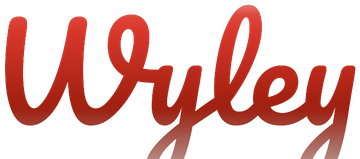
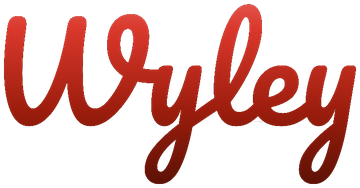
Studio Notebook 0.2.3: most used lines, desk summary, signature and small fixes
Claude-Session: https://claude.ai/code/session_01PB2t8s4Cb4Zaj8TXQ9mjb5

diff --git a/studio-notebook-src/app/public/js/app.js b/studio-notebook-src/app/public/js/app.js
@@ -48,7 +48,7 @@ function drawRail(active) {
     h('a', { class: 'brand', href: '#/' }, 'Studio', h('br'), 'Notebook', h('i')),
     ...NAV.map(([key, href, label]) => h('a', { class: 'nav', href, 'aria-current': active === key ? 'page' : null }, icon(key), label)),
     h('div', { class: 'foot' },
-      h('a', { class: 'sig', href: 'https://wyleymusic.com', target: '_blank', rel: 'noopener noreferrer', title: 'wyleymusic.com' }, h('img', { src: '/wyley.png', alt: 'Wyley', width: 120, height: 53 })),
+      h('a', { class: 'sig', href: 'https://wyleymusic.com', target: '_blank', rel: 'noopener noreferrer', title: 'wyleymusic.com' }, h('img', { src: '/wyley.png', alt: 'Wyley', width: 120, height: 63 })),
       app.state.version ? 'Version ' + app.state.version : ''));
 }
 
@@ -122,10 +122,21 @@ function deskView() {
         h('span', { class: 'rank' }, i + 1), h('b', null, w.word), h('span', { class: 'small mute' }, `${w.count} times in ${w.songs} ${w.songs === 1 ? 'song' : 'songs'}`)))),
       h('p', { class: 'small mute' }, 'Across every song, leaving out small words like "the" and "and". Pick one to find other ways to say it.')));
   }
+  const lines = app.state.topLines || [];
+  if (lines.length) {
+    el.append(h('section', { class: 'sect' }, h('h2', null, 'Most used lines'),
+      h('div', { class: 'list' }, lines.map((l) => h('div', { class: 'item topline' },
+        h('div', { class: 'grow' }, h('div', { class: 't' }, l.line),
+          l.variants.length ? h('div', { class: 'small mute' }, 'Also: ' + l.variants.join(' / ')) : null,
+          h('div', { class: 's' }, l.songs.map((s, i) => [i ? ', ' : '', h('a', { href: `#/song/${s.id}` }, s.title)]), l.more ? ` and ${l.more} more` : '')),
+        h('div', { class: 'days' }, l.songCount > 1 ? `${l.songCount} songs` : `${l.count} times`)))),
+      h('p', { class: 'small mute' }, 'Lines that are the same or nearly the same, in more than one song first.')));
+  }
   const sb = suggestBox(false);
   if (sb) el.append(sb);
   el.append(h('section', { class: 'sect' }, h('div', { class: 'stats' },
-    h('div', { class: 'stat' }, h('b', null, songs.filter((s) => !['released', 'shelved'].includes(s.status)).length), h('span', null, 'in progress')),
+    h('div', { class: 'stat' }, h('b', null, songs.filter((s) => !['scheduled', 'released', 'shelved'].includes(s.status)).length), h('span', null, 'in progress')),
+    h('div', { class: 'stat' }, h('b', null, songs.filter((s) => s.status === 'scheduled').length), h('span', null, 'scheduled')),
     h('div', { class: 'stat' }, h('b', null, songs.filter((s) => s.status === 'released').length), h('span', null, 'released')),
     h('div', { class: 'stat' }, h('b', null, songs.reduce((n, s) => n + s.words, 0).toLocaleString()), h('span', null, 'words written')),
     h('div', { class: 'stat' }, ideaCount, h('span', null, 'ideas waiting')))));
@@ -275,8 +286,7 @@ function songsView() {
       coverEl(s),
       h('div', { class: 't' }, s.title),
       hits && lines.get(s.id) && lines.get(s.id).length ? h('div', { class: 'small mute' }, lines.get(s.id)[0]) : null,
-      h('div', { class: 'meta' }, h('span', { class: 'status', dataset: { s: s.status } }, STATUS_LABEL[s.status]), h('span', null, s.releaseDate ? day(s.releaseDate) : ago(s.updated))),
-      s.onSpotify ? h('div', { class: 'live' }, h('span', { class: 'pill spotify' }, 'Spotify')) : null))));
+      h('div', { class: 'meta' }, h('span', { class: 'status', dataset: { s: s.status } }, STATUS_LABEL[s.status]), h('span', null, s.releaseDate ? day(s.releaseDate) : ago(s.updated)))))));
   }
   el.append(h('div', { class: 'pagehead' }, h('div', { class: 'grow' }, h('h1', null, 'Songs')), h('button', { class: 'btn', type: 'button', onclick: () => syncStreams(draw) }, 'Sync Spotify'), h('button', { class: 'btn primary', type: 'button', onclick: () => newSong() }, 'New song')),
     h('div', { class: 'row' }, search), chips, grid);
@@ -440,7 +450,7 @@ function settingsView() {
           h('p', { class: 'small mute' }, 'Without a key, only your current top tracks on Spotify can be seen. A free key from developer.spotify.com (create an app, then copy its Client ID and Client secret) lets Sync see all of them. The secret is kept on your Umbrel and is left out of backups.'),
           field('Client ID', streamInput('spotifyClientId', '')),
           field('Client secret', h('input', { class: 'input mono', type: 'password', autocomplete: 'off', placeholder: s.spotifyKeySaved ? 'Saved. Type to replace it.' : '', oninput: (e) => saveSettings({ spotifyClientSecret: e.target.value }) })))),
-      h('div', { class: 'row' }, h('button', { class: 'btn', type: 'button', onclick: () => syncStreams() }, 'Sync now'), h('span', { class: 'small mute' }, s.lastSync ? 'Last synced ' + ago(s.lastSync) : 'Not synced yet'))),
+      h('div', { class: 'row' }, h('button', { class: 'btn', type: 'button', onclick: () => syncStreams(route) }, 'Sync now'), h('span', { class: 'small mute' }, s.lastSync ? 'Last synced ' + ago(s.lastSync) : 'Not synced yet'))),
     h('section', { class: 'sect stack' }, h('h2', null, 'Release planning'),
       field('Gap between releases', cadence, 'Used for the suggested next release date on the Desk and the Calendar.')),
     h('section', { class: 'sect stack' }, h('h2', null, 'Release checklist for new songs'), field('One step per line', checklist, 'Songs you already have keep their own checklists.')),

diff --git a/studio-notebook-src/app/lib/store.js b/studio-notebook-src/app/lib/store.js
@@ -271,6 +271,56 @@ class Store {
     return [...counts].sort((a, b) => b[1] - a[1] || (a[0] < b[0] ? -1 : 1)).slice(0, n).map(([word, count]) => ({ word, count, songs: inSongs.get(word) }));
   }
 
+  /* Lines written more than once, the same or nearly the same. Lines shared by several songs come first. */
+  topLines(n = 5) {
+    const SMALL = new Set(['a', 'an', 'the', 'and', 'but', 'or', 'so', 'oh', 'yeah', 'uh', 'ooh', 'ah', 'hey', 'na', 'la']);
+    const groups = new Map(); // exact key -> group
+    for (const song of this.db.songs) {
+      for (const raw of song.lyrics.split('\n')) {
+        const text = raw.trim();
+        if (!text || /^\s*[\[(].*[\])]\s*$/.test(text)) continue;
+        const words = (text.toLowerCase().replace(/[\u2018\u2019]/g, "'").match(/[a-z0-9][a-z0-9']*/g) || []).map((w) => w.replace(/in'$/, 'ing'));
+        const core = words.filter((w) => !SMALL.has(w));
+        if (core.length < 3) continue;
+        const key = core.join(' ');
+        let g = groups.get(key);
+        if (!g) { g = { key, set: new Set(core), len: core.length, count: 0, songs: new Map(), texts: new Map() }; groups.set(key, g); }
+        g.count++;
+        g.songs.set(song.id, song.title);
+        const shown = text.replace(/[\s,;:.!?\u2014-]+$/, '');
+        g.texts.set(shown, (g.texts.get(shown) || 0) + 1);
+      }
+    }
+    /* Join lines that share nearly all of their words. */
+    const list = [...groups.values()].sort((a, b) => b.count - a.count).slice(0, 4000);
+    const merged = [];
+    for (const g of list) {
+      let home = null;
+      if (g.len >= 4) {
+        for (const m of merged) {
+          if (m.len < 4 || Math.abs(m.len - g.len) > 2) continue;
+          let same = 0;
+          for (const w of g.set) if (m.set.has(w)) same++;
+          if (same / (g.set.size + m.set.size - same) >= 0.75) { home = m; break; }
+        }
+      }
+      if (!home) { merged.push({ set: g.set, len: g.len, count: g.count, songs: new Map(g.songs), texts: new Map(g.texts) }); continue; }
+      home.count += g.count;
+      for (const [id, t] of g.songs) home.songs.set(id, t);
+      for (const [t, c] of g.texts) home.texts.set(t, (home.texts.get(t) || 0) + c);
+    }
+    return merged.filter((m) => m.count > 1)
+      .sort((a, b) => b.songs.size - a.songs.size || b.count - a.count)
+      .slice(0, n)
+      .map((m) => {
+        const texts = [...m.texts].sort((a, b) => b[1] - a[1]).map((x) => x[0]);
+        const lower = new Set();
+        const variants = texts.filter((t) => { const k = t.toLowerCase(); if (lower.has(k)) return false; lower.add(k); return true; });
+        const songs = [...m.songs].map(([id, title]) => ({ id, title }));
+        return { line: variants[0], variants: variants.slice(1, 3), count: m.count, songCount: songs.length, songs: songs.slice(0, 4), more: Math.max(0, songs.length - 4) };
+      });
+  }
+
   /* Fill a song in from what a streaming service says about it. Existing details are kept. */
   applyTrack(sid, t, today) {
     const s = this.getSong(sid);

diff --git a/studio-notebook-src/app/public/js/song.js b/studio-notebook-src/app/public/js/song.js
@@ -260,10 +260,10 @@ export async function songView(app, id, tabName) {
       const wordsN = (text.match(/[A-Za-z][A-Za-z'’]*/g) || []).length;
       const linesN = lines.filter((l) => l.trim() && !isTag(l)).length;
       const over = limit > 0 && text.length > limit;
-      counts.replaceChildren(
+      counts.replaceChildren(...[
         h('span', { class: over ? 'over' : '' }, limit > 0 ? `${text.length.toLocaleString()} / ${limit.toLocaleString()} characters` : `${text.length.toLocaleString()} characters`),
         over ? h('span', { class: 'over' }, `${(text.length - limit).toLocaleString()} over the limit`) : null,
-        h('span', null, `${wordsN.toLocaleString()} words`), h('span', null, `${linesN} lines`), h('span', null, `${syllables.toLocaleString()} syllables`));
+        h('span', null, `${wordsN.toLocaleString()} words`), h('span', null, `${linesN} lines`), h('span', null, `${syllables.toLocaleString()} syllables`)].filter(Boolean));
       meter.classList.toggle('hide', !(limit > 0));
       meter.classList.toggle('over', over);
       meterBar.style.width = limit > 0 ? Math.min(100, (text.length / limit) * 100) + '%' : '0';

diff --git a/studio-notebook-src/app/test/api.test.js b/studio-notebook-src/app/test/api.test.js
@@ -183,3 +183,15 @@ test('a matched track fills in a song, and the Spotify secret stays on the serve
   assert.ok(!JSON.stringify((await call('GET', '/api/backup')).data).includes('hush'));
   assert.strictEqual((await call('POST', '/api/streams/link', { song: made.id, track: { spotify: 'javascript:alert(1)' } })).data.filled.length, 0);
 });
+
+test('most used lines groups the same and nearly the same lines', async () => {
+  const a = (await call('POST', '/api/songs', { title: 'Line A', lyrics: '[Chorus]\nI was lost but now I am found again\nSomething only here\nI was lost but now I am found again' })).data;
+  const b = (await call('POST', '/api/songs', { title: 'Line B', lyrics: 'I was lost, but now I\u2019m found again!\nOh yeah\nI was lost but now I am found once again' })).data;
+  const top = (await call('GET', '/api/state?today=2026-11-10')).data.topLines;
+  assert.ok(Array.isArray(top) && top.length >= 1);
+  assert.strictEqual(top[0].songCount, 2);
+  assert.strictEqual(top[0].count, 4);
+  assert.ok(/lost but now/i.test(top[0].line));
+  assert.ok(!top.some((l) => /only here|oh yeah/i.test(l.line)));
+  assert.ok(a.id && b.id);
+});

diff --git a/studio-notebook-src/app/public/css/app.css b/studio-notebook-src/app/public/css/app.css
@@ -326,7 +326,10 @@ dialog.wide { width: min(94vw, 760px); }
 .item > :last-child { white-space: nowrap; flex: none; }
 
 /* ---------- 0.2.0: signature, live badges, most used words, calendar ---------- */
-.rail .foot .sig { display: block; width: 120px; margin: 0 0 8px -4px; opacity: .92; }
+.rail .foot .sig { display: block; width: 120px; margin: 0 0 10px -4px; opacity: .92; }
+.topline .t { font-family: inherit; font-weight: 600; font-size: 15px; }
+.topline .s { white-space: normal; }
+.topline .s a { color: inherit; }
 .rail .foot .sig:hover { opacity: 1; }
 .rail .foot .sig img { display: block; width: 100%; height: auto; }
 .live { display: flex; gap: 6px; flex-wrap: wrap; align-items: center; }

diff --git a/studio-notebook-src/app/server.js b/studio-notebook-src/app/server.js
@@ -162,7 +162,7 @@ async function api(req, res, url) {
     return json(res, {
       version: pkg.version, statuses: STATUSES, settings: store.publicSettings(), songs: store.listSongs(),
       ideas: store.db.ideas, collections: store.db.collections, words: words.available(),
-      topWords: store.topWords(5), today: localDay(q.get('today')),
+      topWords: store.topWords(5), topLines: store.topLines(5), today: localDay(q.get('today')),
       suggest: release.suggest(store.db.songs, store.db.settings.cadenceWeeks, localDay(q.get('today'))),
     });
   }

diff --git a/studio-notebook-src/README.md b/studio-notebook-src/README.md
@@ -63,7 +63,7 @@ across songs.
   with links and release dates. Without a key it sees only your current top
   tracks; a free Spotify API key lets it read all of them.
   Sync is the only time the app goes online.
-- The five words you use most, on the Desk.
+- The five words and the five lines you use most, on the Desk.
 
 ## What it does not do
 
